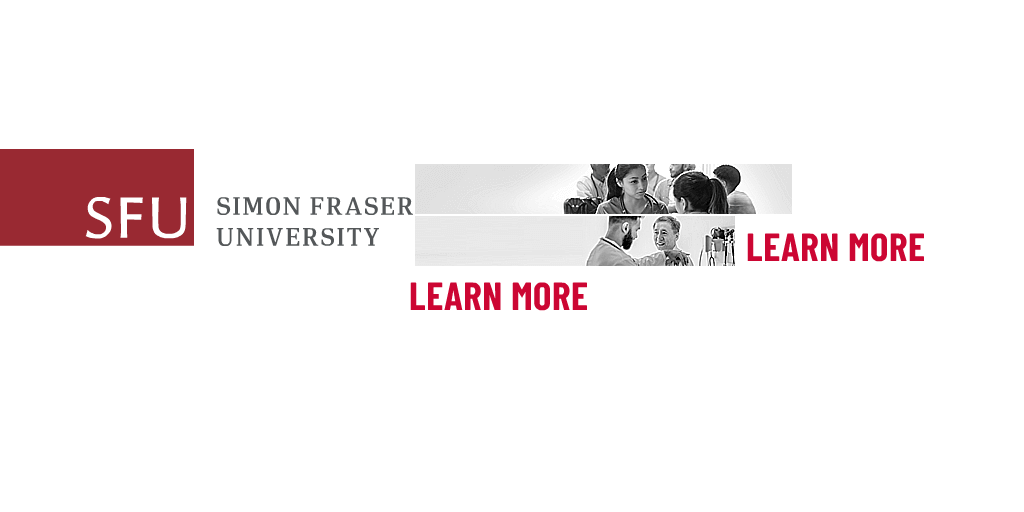
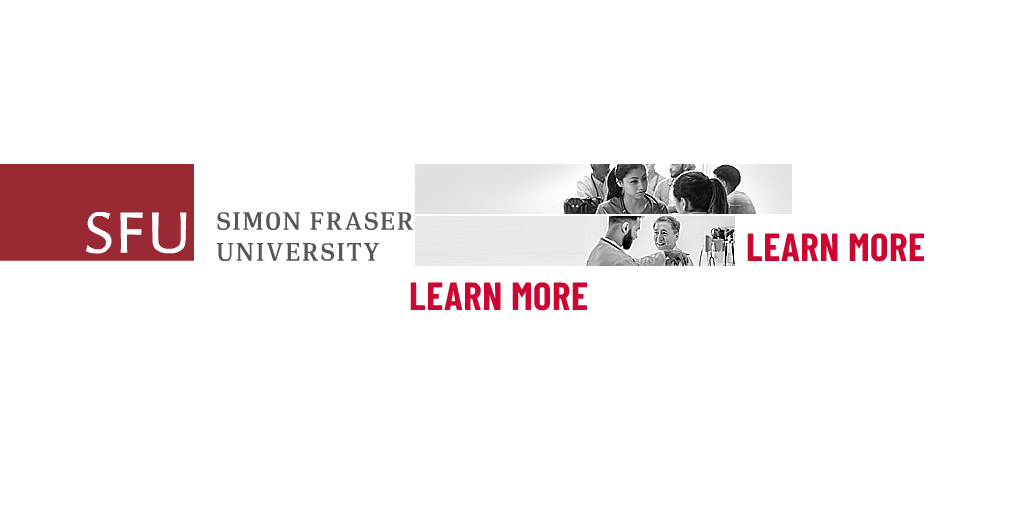
Add files via upload

Changed region(s): [[0.0, 0.375, 0.4062, 0.5312], [0.0, 0.2812, 0.1875, 0.3438]]

diff --git a/banner_320x50/banner_320x50.js b/banner_320x50/banner_320x50.js
@@ -3,7 +3,7 @@
 var p; // shortcut to reference prototypes
 var lib={};var ss={};var img={};
 lib.ssMetadata = [
-		{name:"banner_320x50_atlas_1", frames: [[0,0,472,147],[474,0,360,162],[0,149,413,97],[794,164,198,53],[737,219,198,53],[0,248,198,53],[200,248,198,53],[400,268,198,53],[600,274,198,53],[415,216,320,50],[415,164,377,50]]}
+		{name:"banner_320x50_atlas_1", frames: [[0,0,529,162],[531,0,360,162],[0,164,413,97],[794,164,198,53],[737,219,198,53],[0,263,198,53],[200,263,198,53],[400,268,198,53],[600,274,198,53],[415,216,320,50],[415,164,377,50]]}
 ];
 
 
@@ -27,63 +27,63 @@ lib.ssMetadata = [
 
 
 
-(lib.CachedBmp_9 = function() {
+(lib.CachedBmp_17 = function() {
 	this.initialize(ss["banner_320x50_atlas_1"]);
 	this.gotoAndStop(0);
 }).prototype = p = new cjs.Sprite();
 
 
 
-(lib.CachedBmp_8 = function() {
+(lib.CachedBmp_16 = function() {
 	this.initialize(ss["banner_320x50_atlas_1"]);
 	this.gotoAndStop(1);
 }).prototype = p = new cjs.Sprite();
 
 
 
-(lib.CachedBmp_11 = function() {
+(lib.CachedBmp_15 = function() {
 	this.initialize(ss["banner_320x50_atlas_1"]);
 	this.gotoAndStop(2);
 }).prototype = p = new cjs.Sprite();
 
 
 
-(lib.CachedBmp_6 = function() {
+(lib.CachedBmp_14 = function() {
 	this.initialize(ss["banner_320x50_atlas_1"]);
 	this.gotoAndStop(3);
 }).prototype = p = new cjs.Sprite();
 
 
 
-(lib.CachedBmp_5 = function() {
+(lib.CachedBmp_13 = function() {
 	this.initialize(ss["banner_320x50_atlas_1"]);
 	this.gotoAndStop(4);
 }).prototype = p = new cjs.Sprite();
 
 
 
-(lib.CachedBmp_4 = function() {
+(lib.CachedBmp_12 = function() {
 	this.initialize(ss["banner_320x50_atlas_1"]);
 	this.gotoAndStop(5);
 }).prototype = p = new cjs.Sprite();
 
 
 
-(lib.CachedBmp_3 = function() {
+(lib.CachedBmp_11 = function() {
 	this.initialize(ss["banner_320x50_atlas_1"]);
 	this.gotoAndStop(6);
 }).prototype = p = new cjs.Sprite();
 
 
 
-(lib.CachedBmp_2 = function() {
+(lib.CachedBmp_10 = function() {
 	this.initialize(ss["banner_320x50_atlas_1"]);
 	this.gotoAndStop(7);
 }).prototype = p = new cjs.Sprite();
 
 
 
-(lib.CachedBmp_1 = function() {
+(lib.CachedBmp_9 = function() {
 	this.initialize(ss["banner_320x50_atlas_1"]);
 	this.gotoAndStop(8);
 }).prototype = p = new cjs.Sprite();
@@ -116,15 +116,15 @@ if (reversed == null) { reversed = false; }
 	cjs.MovieClip.apply(this,[props]);
 
 	// Text
-	this.instance = new lib.CachedBmp_9();
-	this.instance.setTransform(-146.55,0,0.3333,0.3333);
+	this.instance = new lib.CachedBmp_17();
+	this.instance.setTransform(0,0,0.3333,0.3333);
 
 	this.timeline.addTween(cjs.Tween.get(this.instance).wait(1));
 
 	this._renderFirstFrame();
 
 }).prototype = p = new cjs.MovieClip();
-p.nominalBounds = new cjs.Rectangle(-146.5,0,157.3,49);
+p.nominalBounds = new cjs.Rectangle(0,0,176.4,54);
 
 
 (lib.g_txtSFUMedicalSchool = function(mode,startPosition,loop,reversed) {
@@ -139,7 +139,7 @@ if (reversed == null) { reversed = false; }
 	cjs.MovieClip.apply(this,[props]);
 
 	// text
-	this.instance = new lib.CachedBmp_8();
+	this.instance = new lib.CachedBmp_16();
 	this.instance.setTransform(0,0,0.3333,0.3333);
 
 	this.timeline.addTween(cjs.Tween.get(this.instance).wait(1));
@@ -162,7 +162,7 @@ if (reversed == null) { reversed = false; }
 	cjs.MovieClip.apply(this,[props]);
 
 	// icon_copy
-	this.instance = new lib.CachedBmp_11();
+	this.instance = new lib.CachedBmp_15();
 	this.instance.setTransform(0,0,0.3333,0.3333);
 	this.instance._off = true;
 
@@ -186,25 +186,25 @@ if (reversed == null) { reversed = false; }
 	cjs.MovieClip.apply(this,[props]);
 
 	// TEXT copy
-	this.instance = new lib.CachedBmp_1();
+	this.instance = new lib.CachedBmp_9();
 	this.instance.setTransform(0,1.7,0.3333,0.3333);
 
-	this.instance_1 = new lib.CachedBmp_2();
+	this.instance_1 = new lib.CachedBmp_10();
 	this.instance_1.setTransform(0,1.7,0.3333,0.3333);
 
-	this.instance_2 = new lib.CachedBmp_3();
+	this.instance_2 = new lib.CachedBmp_11();
 	this.instance_2.setTransform(0,1.7,0.3333,0.3333);
 
 	this.timeline.addTween(cjs.Tween.get({}).to({state:[{t:this.instance}]}).to({state:[{t:this.instance_1}]},1).to({state:[{t:this.instance_2}]},1).to({state:[]},1).wait(1));
 
 	// TEXT
-	this.instance_3 = new lib.CachedBmp_4();
+	this.instance_3 = new lib.CachedBmp_12();
 	this.instance_3.setTransform(0,1.7,0.3333,0.3333);
 
-	this.instance_4 = new lib.CachedBmp_5();
+	this.instance_4 = new lib.CachedBmp_13();
 	this.instance_4.setTransform(0,1.7,0.3333,0.3333);
 
-	this.instance_5 = new lib.CachedBmp_6();
+	this.instance_5 = new lib.CachedBmp_14();
 	this.instance_5.setTransform(0,1.7,0.3333,0.3333);
 
 	this.timeline.addTween(cjs.Tween.get({}).to({state:[{t:this.instance_3}]}).to({state:[{t:this.instance_4}]},1).to({state:[{t:this.instance_5}]},1).to({state:[]},1).wait(1));
@@ -680,7 +680,7 @@ if (reversed == null) { reversed = false; }
 
 	// Text
 	this.instance_4 = new lib.gtext12("synched",0);
-	this.instance_4.setTransform(-144.7,47,1,1,0,0,0,-144.7,45);
+	this.instance_4.setTransform(-319.2,44.25,1,1,0,0,0,-144.7,45);
 	this.instance_4._off = true;
 
 	var maskedShapeInstanceList = [this.instance_4];
@@ -689,112 +689,104 @@ if (reversed == null) { reversed = false; }
 		maskedShapeInstanceList[shapedInstanceItr].mask = mask_2;
 	}
 
-	this.timeline.addTween(cjs.Tween.get(this.instance_4).wait(85).to({_off:false},0).to({x:-0.85},19,cjs.Ease.get(0.9)).to({_off:true},81).wait(223));
+	this.timeline.addTween(cjs.Tween.get(this.instance_4).wait(85).to({_off:false},0).to({x:-147.45},19,cjs.Ease.get(0.9)).to({_off:true},81).wait(223));
 
 	// REd_Bg
 	this.shape_80 = new cjs.Shape();
-	this.shape_80.graphics.f("#CC0633").s().p("AgdDjIAAnFIAiAAIAADXIAZAAIAADug");
-	this.shape_80.setTransform(-5.05,24.725);
+	this.shape_80.graphics.f("#CC0633").s().p("AgdD7IAAn1IAiAAIAADrIAZAAIAAEKg");
+	this.shape_80.setTransform(-5.05,25.1);
 
 	this.shape_81 = new cjs.Shape();
-	this.shape_81.graphics.f("#CC0633").s().p("AhPDjIAAnFICfAAIAADZIgIAAIAADsg");
-	this.shape_81.setTransform(0.725,24.725);
+	this.shape_81.graphics.f("#CC0633").s().p("AheD7IAAn1IC9AAIAADuIgRAAIAAEHg");
+	this.shape_81.setTransform(2.275,25.1);
 
 	this.shape_82 = new cjs.Shape();
-	this.shape_82.graphics.f("#CC0633").s().p("AiMDjIAAnFIEYAAIAADcIgnAAIAADpg");
-	this.shape_82.setTransform(7.4,24.725);
+	this.shape_82.graphics.f("#CC0633").s().p("AioD7IAAn1IFRAAIAADxIg5AAIAAEEg");
+	this.shape_82.setTransform(10.35,25.075);
 
 	this.shape_83 = new cjs.Shape();
-	this.shape_83.graphics.f("#CC0633").s().p("AjFDjIAAnFIGLAAIAADeIhFAAIAADng");
-	this.shape_83.setTransform(13.725,24.725);
+	this.shape_83.graphics.f("#CC0633").s().p("AjuD7IAAn1IHdAAIAAD0IheAAIAAEBg");
+	this.shape_83.setTransform(18.025,25.075);
 
 	this.shape_84 = new cjs.Shape();
-	this.shape_84.graphics.f("#CC0633").s().p("Aj7DjIAAnFIH3AAIAADhIhhAAIAADkg");
-	this.shape_84.setTransform(19.775,24.725);
+	this.shape_84.graphics.f("#CC0633").s().p("AkwD7IAAn1IJiAAIAAD3IiCAAIAAD+g");
+	this.shape_84.setTransform(25.3,25.05);
 
 	this.shape_85 = new cjs.Shape();
-	this.shape_85.graphics.f("#CC0633").s().p("AkvDjIAAnFIJfAAIAADiIh8AAIAADjg");
-	this.shape_85.setTransform(25.5,24.725);
+	this.shape_85.graphics.f("#CC0633").s().p("AlvD7IAAn1ILfAAIAAD6IijAAIAAD7g");
+	this.shape_85.setTransform(32.15,25.05);
 
 	this.shape_86 = new cjs.Shape();
-	this.shape_86.graphics.f("#CC0633").s().p("AlgDjIAAnFILBAAIAADkIiWAAIAADhg");
-	this.shape_86.setTransform(30.95,24.725);
+	this.shape_86.graphics.f("#CC0633").s().p("AmqD7IAAn1INVAAIAAD7IjDAAIAAD6g");
+	this.shape_86.setTransform(38.575,25.05);
 
 	this.shape_87 = new cjs.Shape();
-	this.shape_87.graphics.f("#CC0633").s().p("AmODjIAAnFIMdAAIAADmIitAAIAADfg");
-	this.shape_87.setTransform(36.05,24.725);
+	this.shape_87.graphics.f("#CC0633").s().p("AnhD6IAAn0IPDAAIAAD+IjgAAIAAD2g");
+	this.shape_87.setTransform(44.625,25);
 
 	this.shape_88 = new cjs.Shape();
-	this.shape_88.graphics.f("#CC0633").s().p("Am6DjIAAnFIN1AAIAADoIjEAAIAADdg");
-	this.shape_88.setTransform(40.85,24.725);
+	this.shape_88.graphics.f("#CC0633").s().p("AoUD6IAAn0IQpAAIAAEAIj7AAIAAD0g");
+	this.shape_88.setTransform(50.225,25);
 
 	this.shape_89 = new cjs.Shape();
-	this.shape_89.graphics.f("#CC0633").s().p("AniDjIAAnFIPFAAIAADpIjYAAIAADcg");
-	this.shape_89.setTransform(45.35,24.725);
+	this.shape_89.graphics.f("#CC0633").s().p("ApDD6IAAn0ISHAAIAAEBIkUAAIAADzg");
+	this.shape_89.setTransform(55.425,25);
 
 	this.shape_90 = new cjs.Shape();
-	this.shape_90.graphics.f("#CC0633").s().p("AoIDjIAAnFIQRAAIAADrIjsAAIAADag");
-	this.shape_90.setTransform(49.525,24.725);
+	this.shape_90.graphics.f("#CC0633").s().p("ApvD6IAAnzITfAAIAAECIksAAIAADxg");
+	this.shape_90.setTransform(60.175,24.975);
 
 	this.shape_91 = new cjs.Shape();
-	this.shape_91.graphics.f("#CC0633").s().p("AorDjIAAnFIRXAAIAADsIj+AAIAADZg");
-	this.shape_91.setTransform(53.375,24.725);
+	this.shape_91.graphics.f("#CC0633").s().p("AqXD6IAAnzIUuAAIAAEEIlAAAIAADvg");
+	this.shape_91.setTransform(64.55,24.975);
 
 	this.shape_92 = new cjs.Shape();
-	this.shape_92.graphics.f("#CC0633").s().p("ApLDjIAAnFISXAAIAADuIkOAAIAADXg");
-	this.shape_92.setTransform(56.95,24.725);
+	this.shape_92.graphics.f("#CC0633").s().p("Aq6D6IAAnzIV1AAIAAEFIlTAAIAADug");
+	this.shape_92.setTransform(68.5,24.975);
 
 	this.shape_93 = new cjs.Shape();
-	this.shape_93.graphics.f("#CC0633").s().p("ApoDjIAAnFITRAAIAADvIkeAAIAADWg");
-	this.shape_93.setTransform(60.225,24.725);
+	this.shape_93.graphics.f("#CC0633").s().p("ArbD6IAAnzIW3AAIAAEGIlmAAIAADtg");
+	this.shape_93.setTransform(72.025,24.975);
 
 	this.shape_94 = new cjs.Shape();
-	this.shape_94.graphics.f("#CC0633").s().p("AqDDjIAAnFIUHAAIAADwIksAAIAADVg");
-	this.shape_94.setTransform(63.175,24.725);
+	this.shape_94.graphics.f("#CC0633").s().p("Ar3D6IAAnzIXvAAIAAEIIl0AAIAADrg");
+	this.shape_94.setTransform(75.125,24.975);
 
 	this.shape_95 = new cjs.Shape();
-	this.shape_95.graphics.f("#CC0633").s().p("AqbDjIAAnFIU3AAIAADxIk5AAIAADUg");
-	this.shape_95.setTransform(65.8,24.725);
+	this.shape_95.graphics.f("#CC0633").s().p("AsQD6IAAnzIYhAAIAAEJImCAAIAADqg");
+	this.shape_95.setTransform(77.825,24.95);
 
 	this.shape_96 = new cjs.Shape();
-	this.shape_96.graphics.f("#CC0633").s().p("AqvDjIAAnFIVgAAIAADyIlDAAIAADTg");
-	this.shape_96.setTransform(68.1,24.725);
+	this.shape_96.graphics.f("#CC0633").s().p("AslD6IAAnzIZKAAIAAEKImMAAIAADpg");
+	this.shape_96.setTransform(80.1,24.95);
 
 	this.shape_97 = new cjs.Shape();
-	this.shape_97.graphics.f("#CC0633").s().p("ArCDjIAAnFIWFAAIAADzIlMAAIAADSg");
-	this.shape_97.setTransform(70.125,24.725);
+	this.shape_97.graphics.f("#CC0633").s().p("As2D6IAAnzIZtAAIAAELImWAAIAADog");
+	this.shape_97.setTransform(81.975,24.95);
 
 	this.shape_98 = new cjs.Shape();
-	this.shape_98.graphics.f("#CC0633").s().p("ArRDjIAAnFIWjAAIAADzIlUAAIAADSg");
-	this.shape_98.setTransform(71.825,24.725);
+	this.shape_98.graphics.f("#CC0633").s().p("AtDD6IAAnzIaHAAIAAELImdAAIAADog");
+	this.shape_98.setTransform(83.45,24.95);
 
 	this.shape_99 = new cjs.Shape();
-	this.shape_99.graphics.f("#CC0633").s().p("AreDjIAAnFIW9AAIAAD0IlbAAIAADRg");
-	this.shape_99.setTransform(73.225,24.725);
+	this.shape_99.graphics.f("#CC0633").s().p("AtMD6IAAnzIaZAAIAAELImiAAIAADog");
+	this.shape_99.setTransform(84.475,24.95);
 
 	this.shape_100 = new cjs.Shape();
-	this.shape_100.graphics.f("#CC0633").s().p("AroDjIAAnFIXRAAIAAD0IlgAAIAADRg");
-	this.shape_100.setTransform(74.3,24.725);
+	this.shape_100.graphics.f("#CC0633").s().p("AtSD6IAAnzIalAAIAAEMImlAAIAADng");
+	this.shape_100.setTransform(85.1,24.95);
 
 	this.shape_101 = new cjs.Shape();
-	this.shape_101.graphics.f("#CC0633").s().p("AruDjIAAnFIXdAAIAAD1IljAAIAADQg");
-	this.shape_101.setTransform(75.075,24.725);
+	this.shape_101.graphics.f("#CC0633").s().p("AtUD6IAAnzIapAAIAAEMImmAAIAADng");
+	this.shape_101.setTransform(85.3,24.95);
 
-	this.shape_102 = new cjs.Shape();
-	this.shape_102.graphics.f("#CC0633").s().p("ArzDjIAAnFIXnAAIAAD1IlmAAIAADQg");
-	this.shape_102.setTransform(75.55,24.725);
-
-	this.shape_103 = new cjs.Shape();
-	this.shape_103.graphics.f("#CC0633").s().p("Ar0DjIAAnFIXpAAIAAD1IlmAAIAADQg");
-	this.shape_103.setTransform(75.7,24.725);
-
-	var maskedShapeInstanceList = [this.shape_80,this.shape_81,this.shape_82,this.shape_83,this.shape_84,this.shape_85,this.shape_86,this.shape_87,this.shape_88,this.shape_89,this.shape_90,this.shape_91,this.shape_92,this.shape_93,this.shape_94,this.shape_95,this.shape_96,this.shape_97,this.shape_98,this.shape_99,this.shape_100,this.shape_101,this.shape_102,this.shape_103];
+	var maskedShapeInstanceList = [this.shape_80,this.shape_81,this.shape_82,this.shape_83,this.shape_84,this.shape_85,this.shape_86,this.shape_87,this.shape_88,this.shape_89,this.shape_90,this.shape_91,this.shape_92,this.shape_93,this.shape_94,this.shape_95,this.shape_96,this.shape_97,this.shape_98,this.shape_99,this.shape_100,this.shape_101];
 
 	for(var shapedInstanceItr = 0; shapedInstanceItr < maskedShapeInstanceList.length; shapedInstanceItr++) {
 		maskedShapeInstanceList[shapedInstanceItr].mask = mask_2;
 	}
 
-	this.timeline.addTween(cjs.Tween.get({}).to({state:[]}).to({state:[{t:this.shape_80}]},75).to({state:[{t:this.shape_81}]},1).to({state:[{t:this.shape_82}]},1).to({state:[{t:this.shape_83}]},1).to({state:[{t:this.shape_84}]},1).to({state:[{t:this.shape_85}]},1).to({state:[{t:this.shape_86}]},1).to({state:[{t:this.shape_87}]},1).to({state:[{t:this.shape_88}]},1).to({state:[{t:this.shape_89}]},1).to({state:[{t:this.shape_90}]},1).to({state:[{t:this.shape_91}]},1).to({state:[{t:this.shape_92}]},1).to({state:[{t:this.shape_93}]},1).to({state:[{t:this.shape_94}]},1).to({state:[{t:this.shape_95}]},1).to({state:[{t:this.shape_96}]},1).to({state:[{t:this.shape_97}]},1).to({state:[{t:this.shape_98}]},1).to({state:[{t:this.shape_99}]},1).to({state:[{t:this.shape_100}]},1).to({state:[{t:this.shape_101}]},1).to({state:[{t:this.shape_102}]},1).to({state:[{t:this.shape_103}]},1).to({state:[]},87).wait(223));
+	this.timeline.addTween(cjs.Tween.get({}).to({state:[]}).to({state:[{t:this.shape_80}]},75).to({state:[{t:this.shape_81}]},1).to({state:[{t:this.shape_82}]},1).to({state:[{t:this.shape_83}]},1).to({state:[{t:this.shape_84}]},1).to({state:[{t:this.shape_85}]},1).to({state:[{t:this.shape_86}]},1).to({state:[{t:this.shape_87}]},1).to({state:[{t:this.shape_88}]},1).to({state:[{t:this.shape_89}]},1).to({state:[{t:this.shape_90}]},1).to({state:[{t:this.shape_91}]},1).to({state:[{t:this.shape_92}]},1).to({state:[{t:this.shape_93}]},1).to({state:[{t:this.shape_94}]},1).to({state:[{t:this.shape_95}]},1).to({state:[{t:this.shape_96}]},1).to({state:[{t:this.shape_97}]},1).to({state:[{t:this.shape_98}]},1).to({state:[{t:this.shape_99}]},1).to({state:[{t:this.shape_100}]},1).to({state:[{t:this.shape_101}]},1).to({state:[]},89).wait(223));
 
 	// SFU_Logo
 	this.instance_5 = new lib.g_SFULogohorizontal("single",1);
